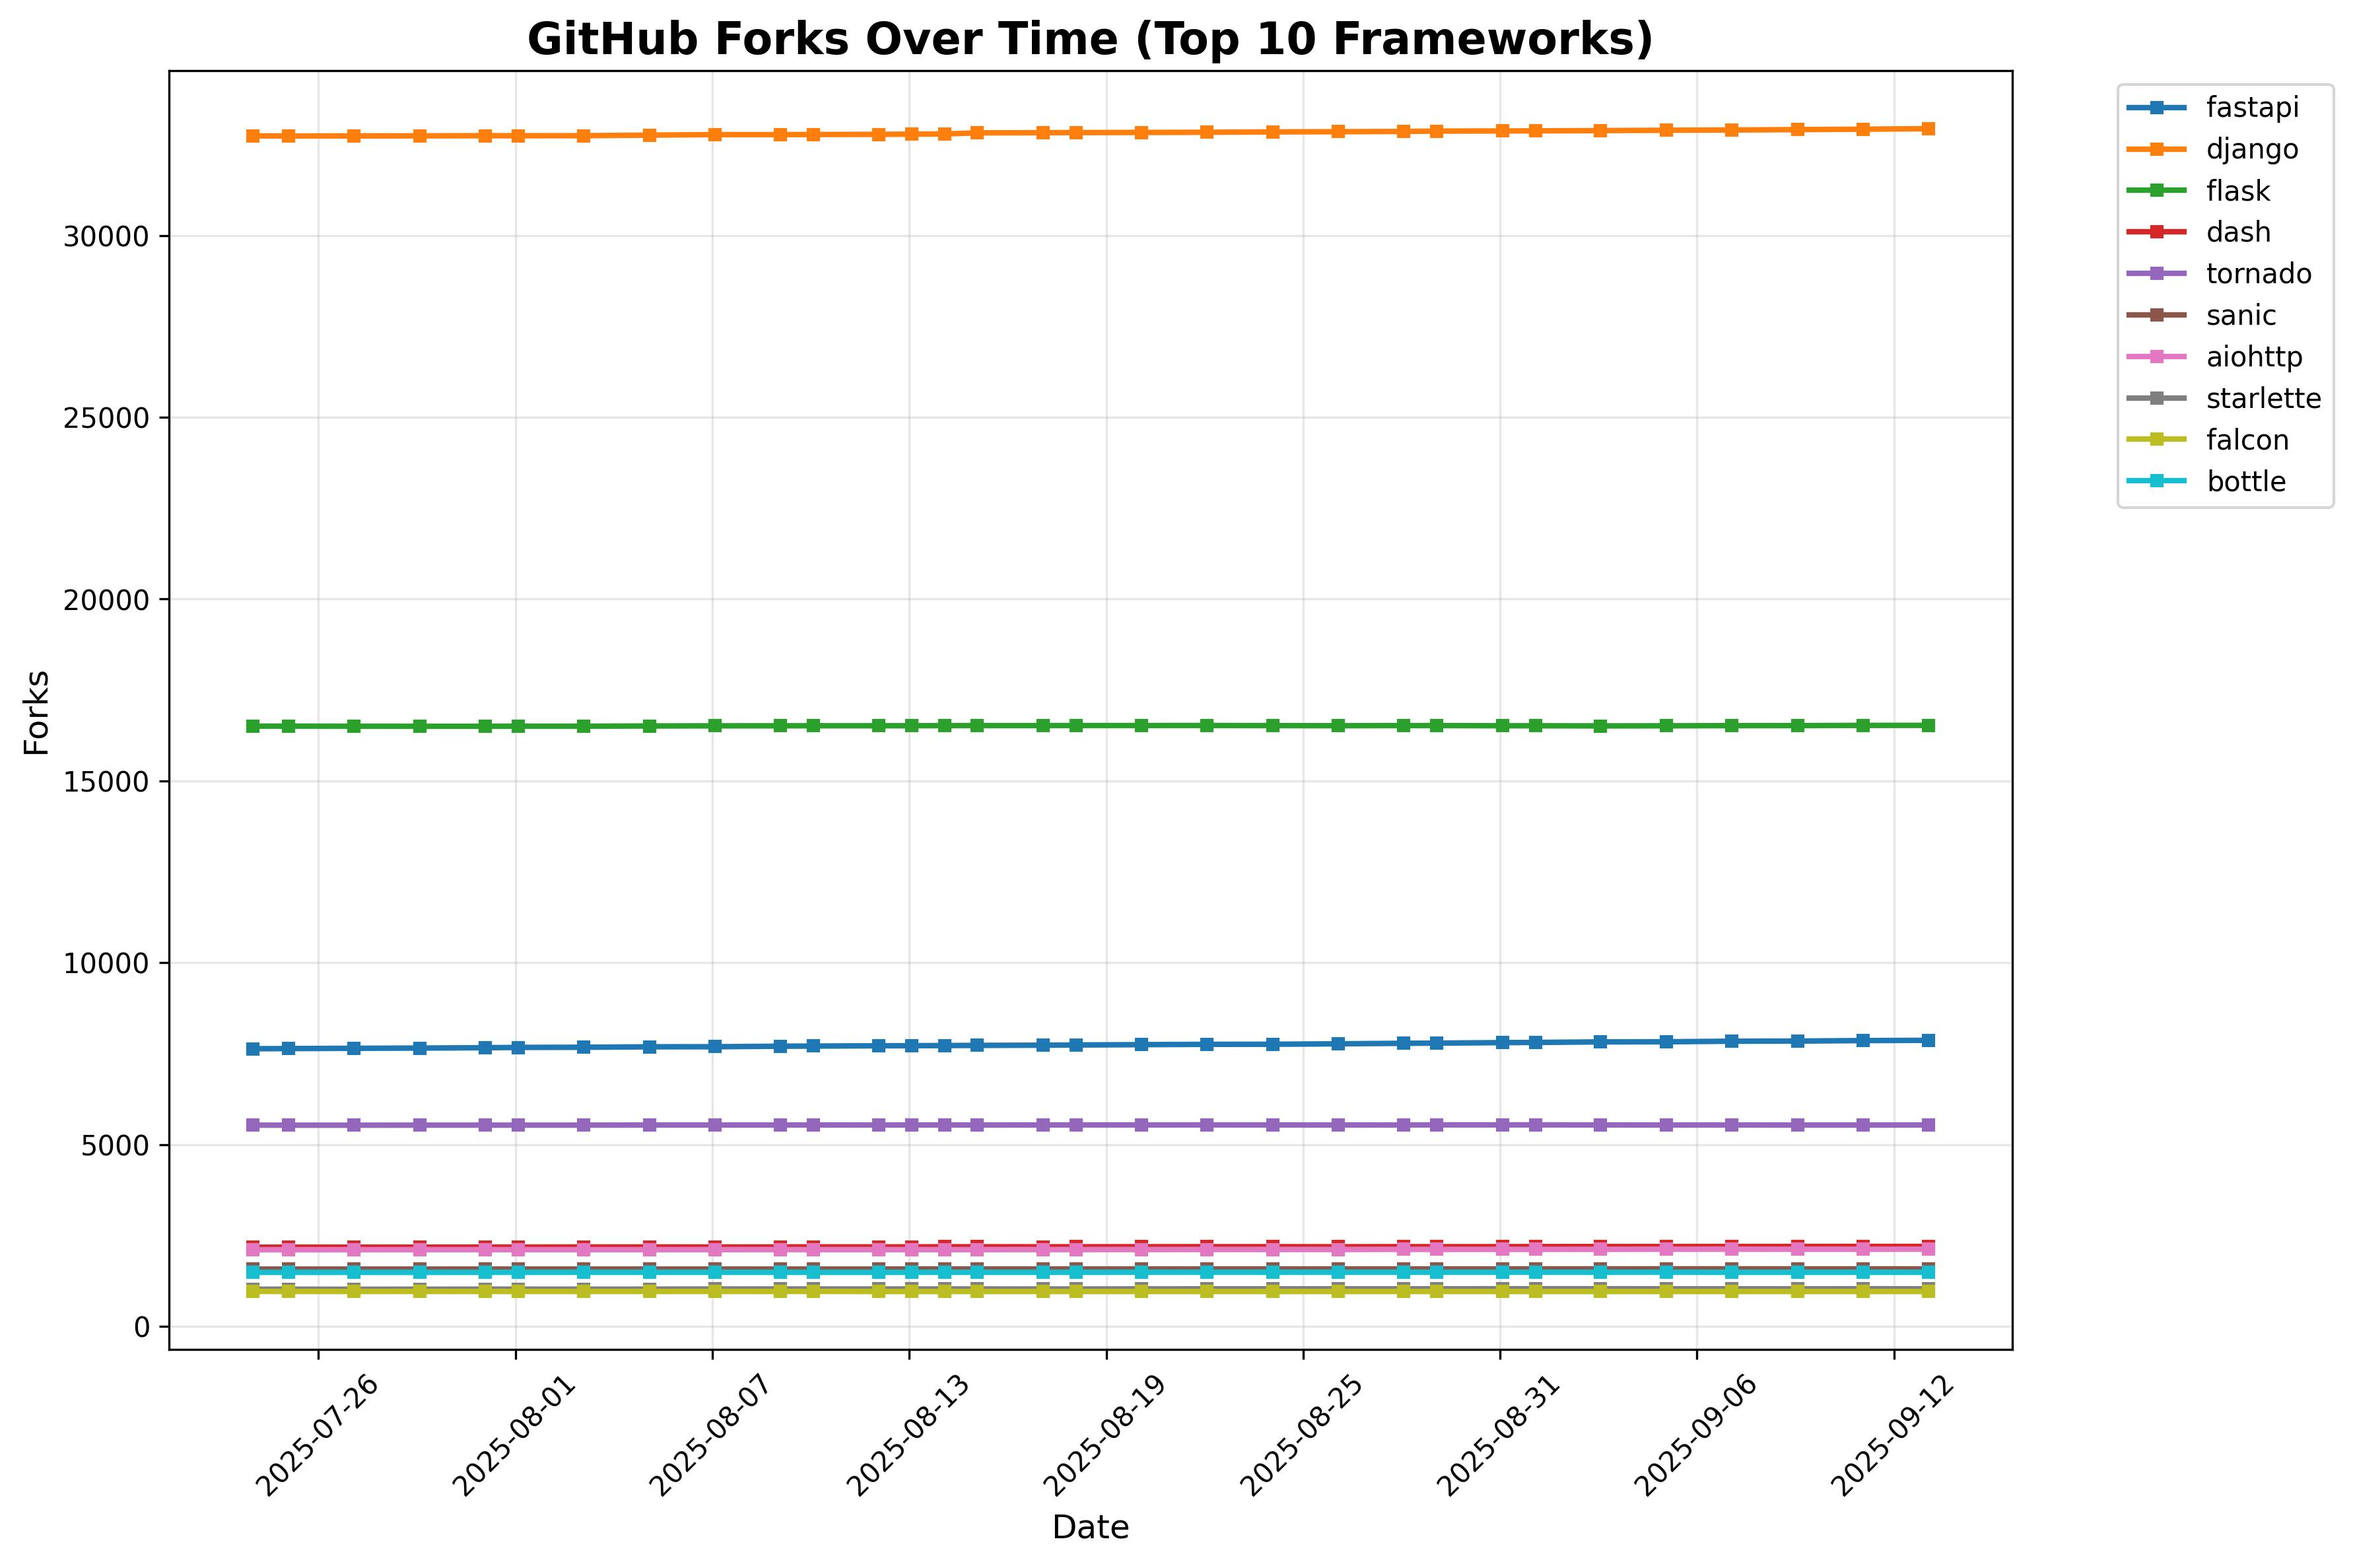
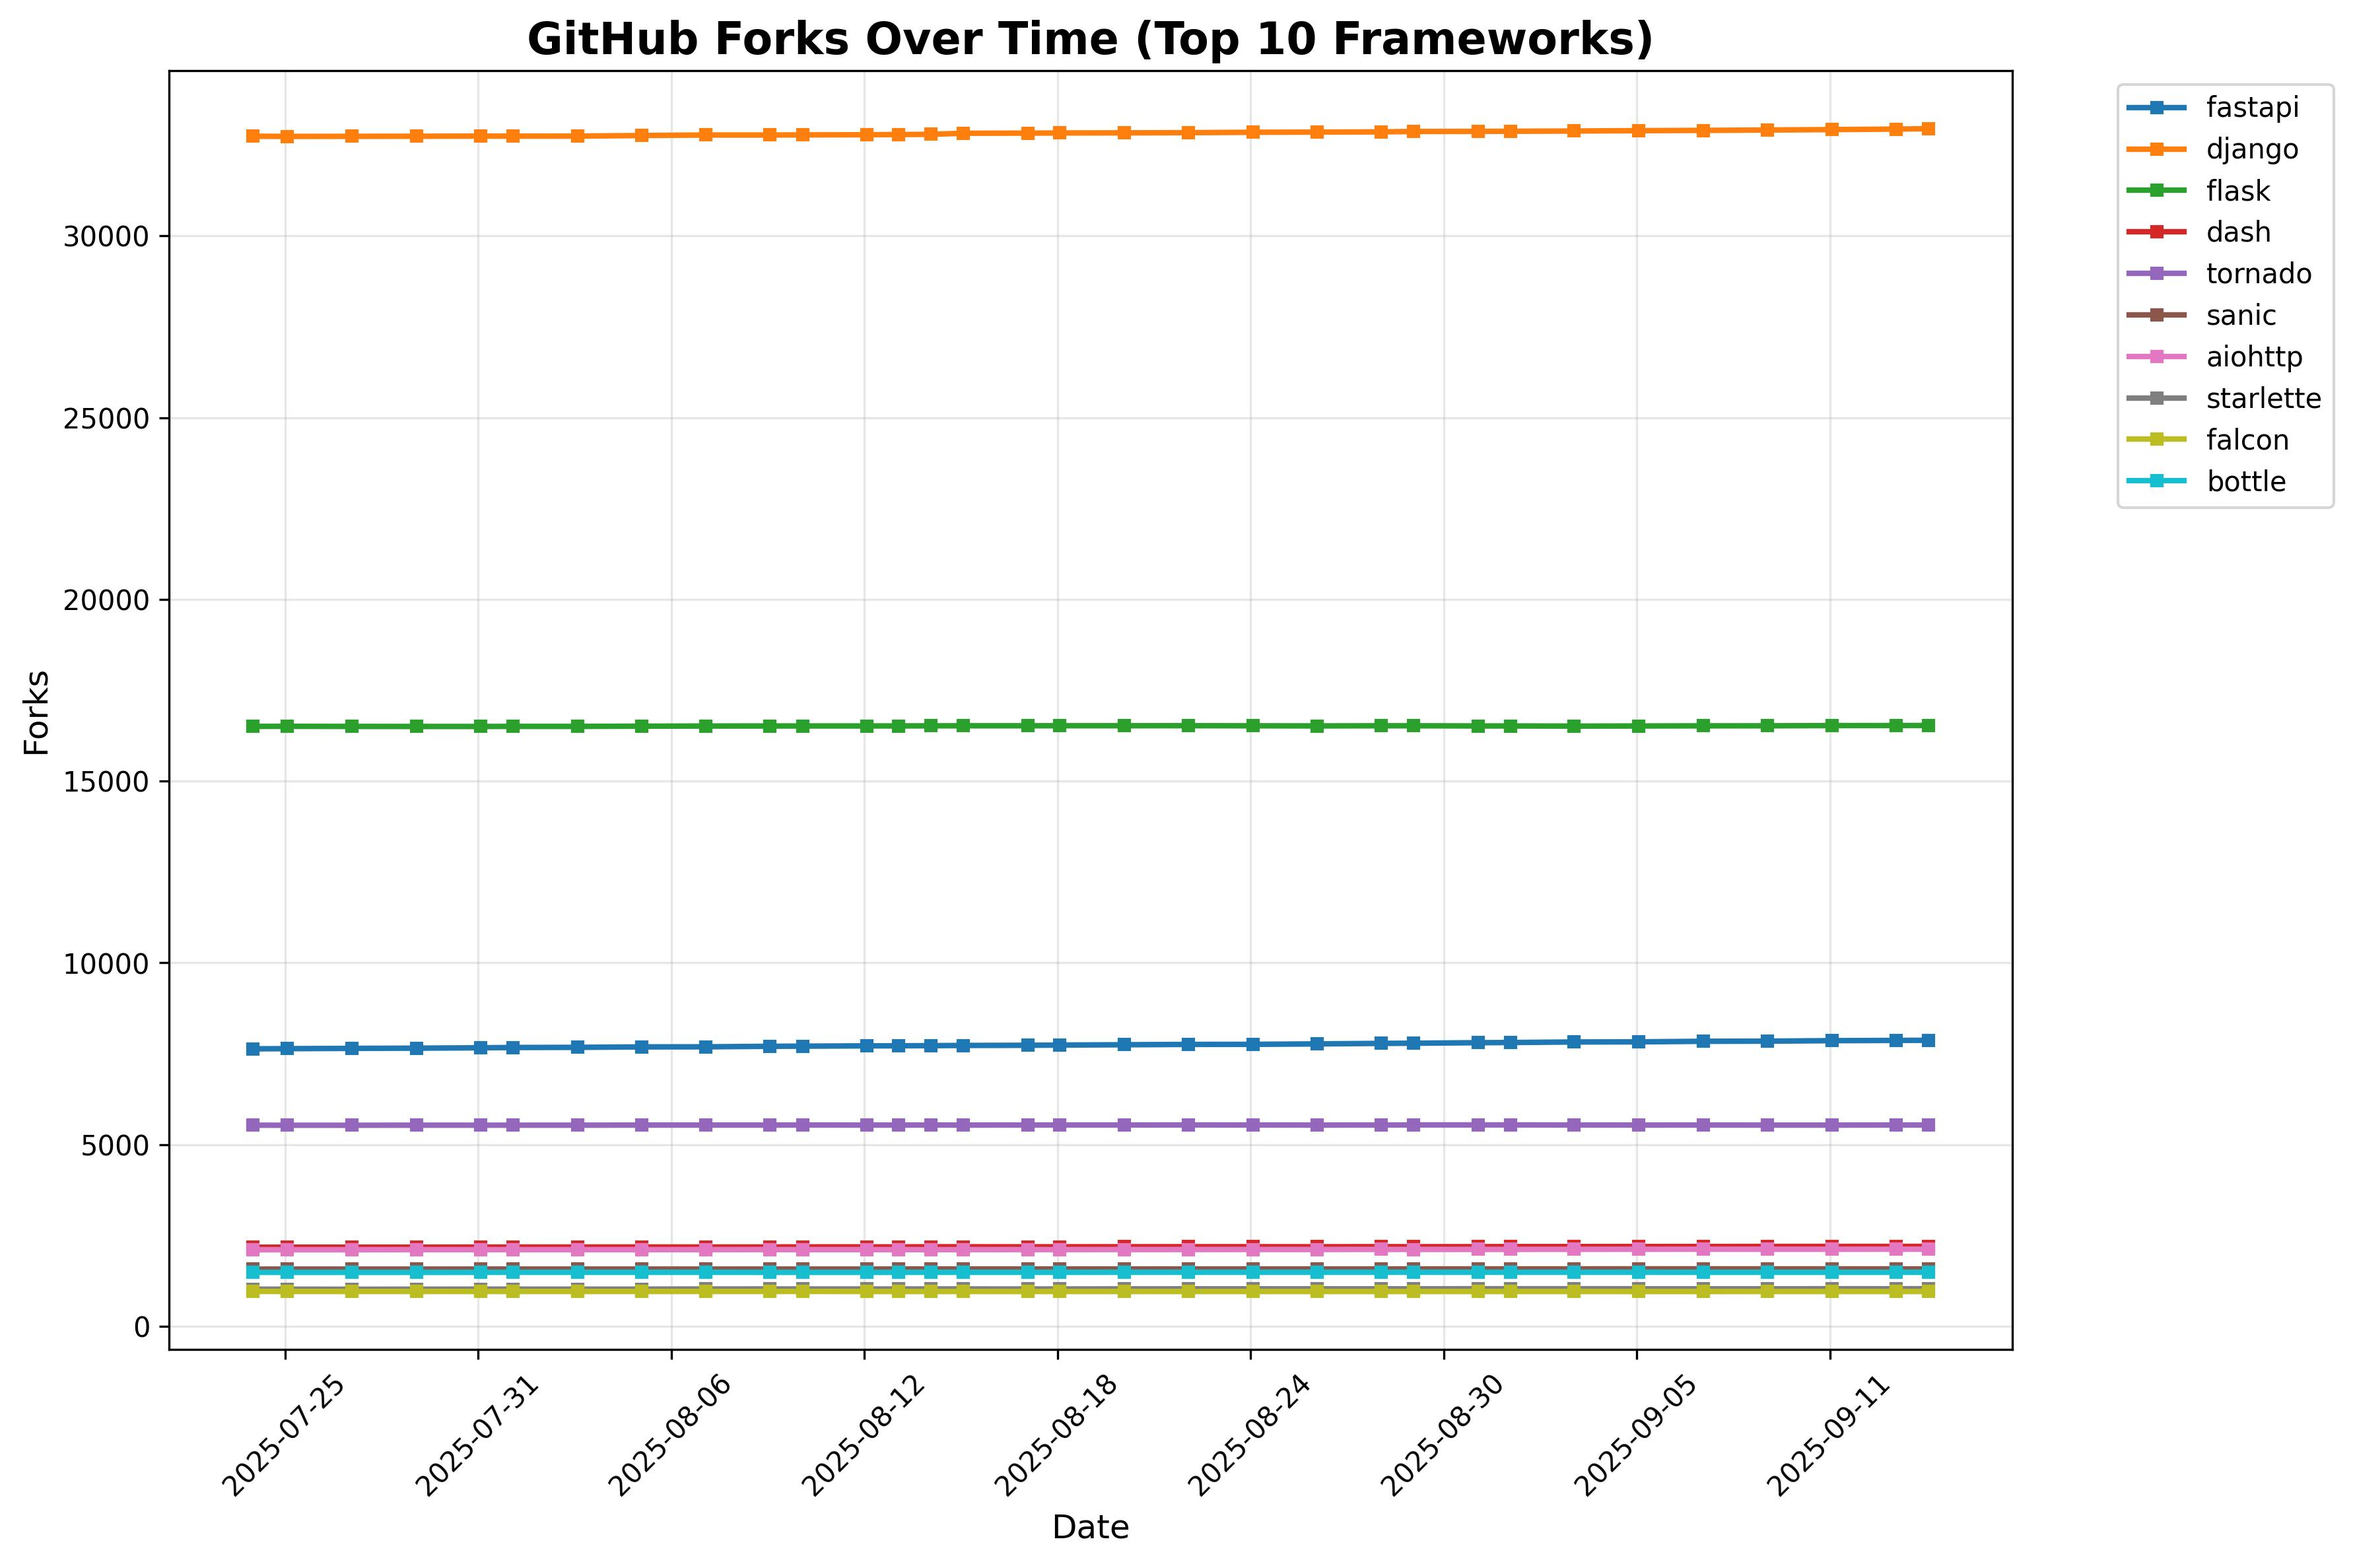
Update framework stars - 2025-09-14 01:36:01 UTC

diff --git a/README.md b/README.md
@@ -7,24 +7,24 @@ A list of popular github projects related to Python web framework (ranked by sta
 
 | Project Name | Stars | Forks | Open Issues | Last Commit |
 | ------------ | ----- | ----- | ----------- | ----------- |
-| [fastapi](https://github.com/fastapi/fastapi) | 89426 | 7866 | 244 | 2025-09-09 09:14:40 |
-| [django](https://github.com/django/django) | 84962 | 32937 | 374 | 2025-09-12 16:51:52 |
-| [flask](https://github.com/pallets/flask) | 70335 | 16528 | 7 | 2025-08-19 21:09:56 |
-| [dash](https://github.com/plotly/dash) | 24031 | 2199 | 559 | 2025-09-09 14:25:10 |
-| [tornado](https://github.com/tornadoweb/tornado) | 22173 | 5538 | 209 | 2025-08-21 14:14:13 |
-| [sanic](https://github.com/sanic-org/sanic) | 18496 | 1580 | 143 | 2025-03-31 21:19:26 |
-| [aiohttp](https://github.com/aio-libs/aiohttp) | 15981 | 2122 | 275 | 2025-09-11 13:57:44 |
-| [starlette](https://github.com/Kludex/starlette) | 11450 | 1033 | 50 | 2025-09-06 10:49:36 |
-| [falcon](https://github.com/falconry/falcon) | 9714 | 959 | 157 | 2025-09-10 04:12:15 |
-| [bottle](https://github.com/bottlepy/bottle) | 8657 | 1487 | 284 | 2025-06-27 10:14:03 |
+| [fastapi](https://github.com/fastapi/fastapi) | 89452 | 7870 | 244 | 2025-09-09 09:14:40 |
+| [django](https://github.com/django/django) | 84974 | 32948 | 372 | 2025-09-13 22:27:50 |
+| [flask](https://github.com/pallets/flask) | 70343 | 16530 | 8 | 2025-08-19 21:09:56 |
+| [dash](https://github.com/plotly/dash) | 24044 | 2200 | 559 | 2025-09-09 14:25:10 |
+| [tornado](https://github.com/tornadoweb/tornado) | 22178 | 5538 | 209 | 2025-08-21 14:14:13 |
+| [sanic](https://github.com/sanic-org/sanic) | 18494 | 1580 | 143 | 2025-03-31 21:19:26 |
+| [aiohttp](https://github.com/aio-libs/aiohttp) | 15980 | 2122 | 275 | 2025-09-11 13:57:44 |
+| [starlette](https://github.com/Kludex/starlette) | 11452 | 1035 | 49 | 2025-09-13 10:21:58 |
+| [falcon](https://github.com/falconry/falcon) | 9716 | 959 | 158 | 2025-09-10 04:12:15 |
+| [bottle](https://github.com/bottlepy/bottle) | 8658 | 1488 | 284 | 2025-09-13 12:31:43 |
 | [hug](https://github.com/hugapi/hug) | 6894 | 388 | 186 | 2023-06-30 13:14:01 |
-| [eve](https://github.com/pyeve/eve) | 6733 | 746 | 31 | 2025-08-26 14:11:54 |
+| [eve](https://github.com/pyeve/eve) | 6734 | 746 | 31 | 2025-08-26 14:11:54 |
 | [vibora](https://github.com/vibora-io/vibora) | 5632 | 301 | 140 | 2019-02-11 10:54:12 |
-| [pyramid](https://github.com/Pylons/pyramid) | 4045 | 889 | 89 | 2024-12-20 23:21:35 |
+| [pyramid](https://github.com/Pylons/pyramid) | 4047 | 889 | 89 | 2024-12-20 23:21:35 |
 | [quart](https://github.com/pallets/quart) | 3445 | 188 | 62 | 2025-09-01 18:49:41 |
 | [masonite](https://github.com/MasoniteFramework/masonite) | 2305 | 131 | 21 | 2025-03-20 20:11:49 |
-| [web2py](https://github.com/web2py/web2py) | 2153 | 909 | 369 | 2025-09-07 03:44:20 |
-| [cherrypy](https://github.com/cherrypy/cherrypy) | 1922 | 369 | 261 | 2025-08-30 13:15:08 |
+| [web2py](https://github.com/web2py/web2py) | 2153 | 909 | 369 | 2025-09-13 16:03:35 |
+| [cherrypy](https://github.com/cherrypy/cherrypy) | 1921 | 369 | 261 | 2025-08-30 13:15:08 |
 | [tg2](https://github.com/TurboGears/tg2) | 811 | 81 | 13 | 2025-02-18 22:52:59 |
 | [Growler](https://github.com/pyGrowler/Growler) | 688 | 21 | 5 | 2020-03-08 07:51:41 |
 | [morepath](https://github.com/morepath/morepath) | 396 | 37 | 77 | 2022-05-29 18:09:39 |
@@ -41,4 +41,4 @@ A list of popular github projects related to Python web framework (ranked by sta
 *Charts show the top 10 frameworks by current star count*
 
 
-*Last Automatic Update: 2025-09-13T01:18:26*
+*Last Automatic Update: 2025-09-14T01:35:58*
